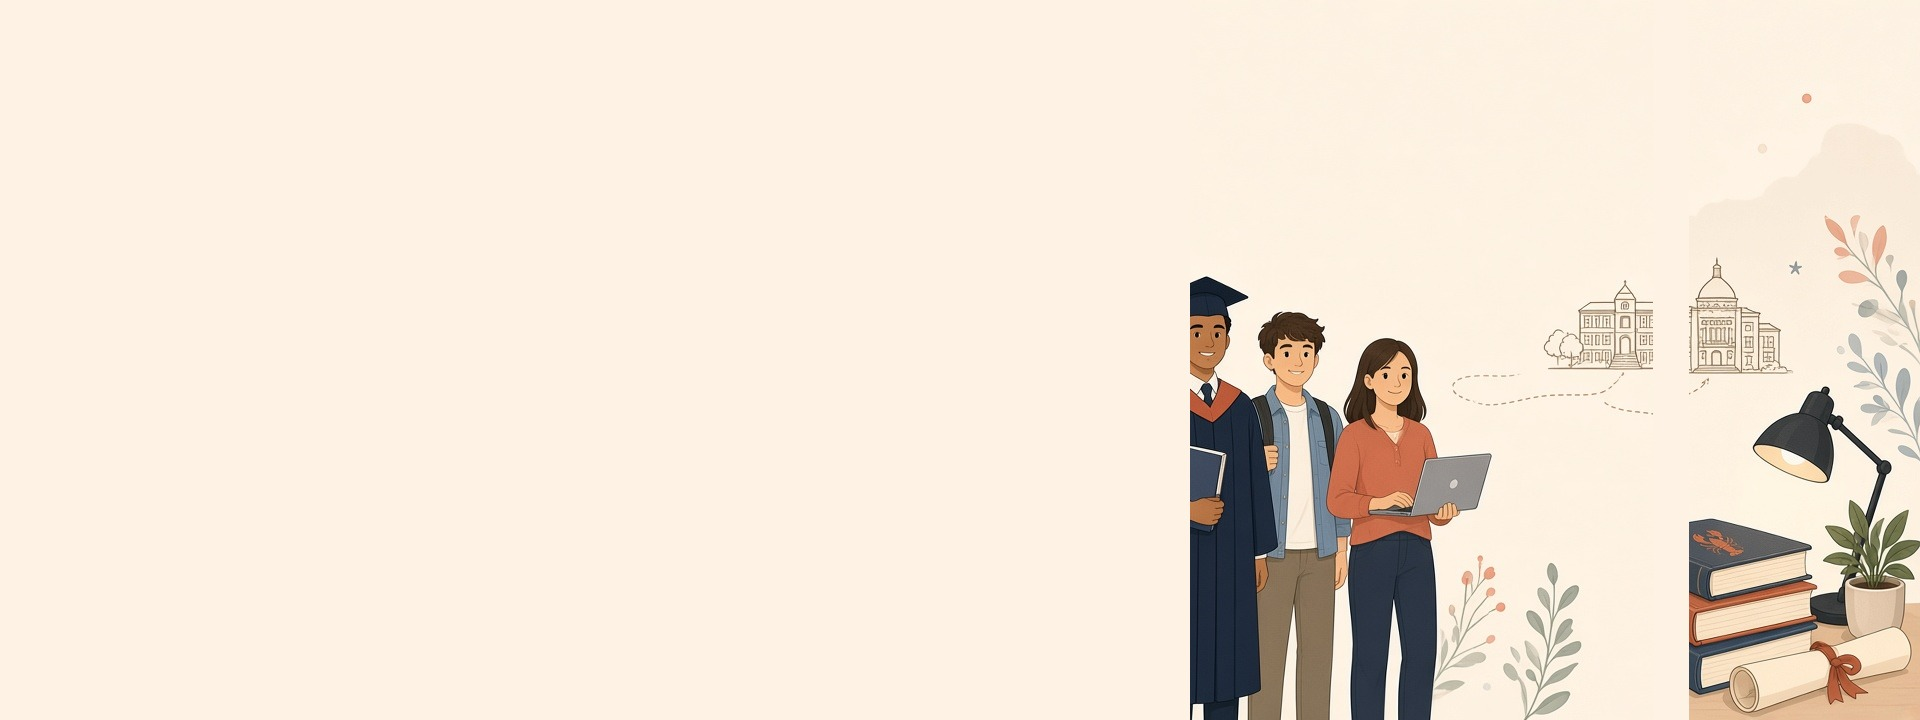
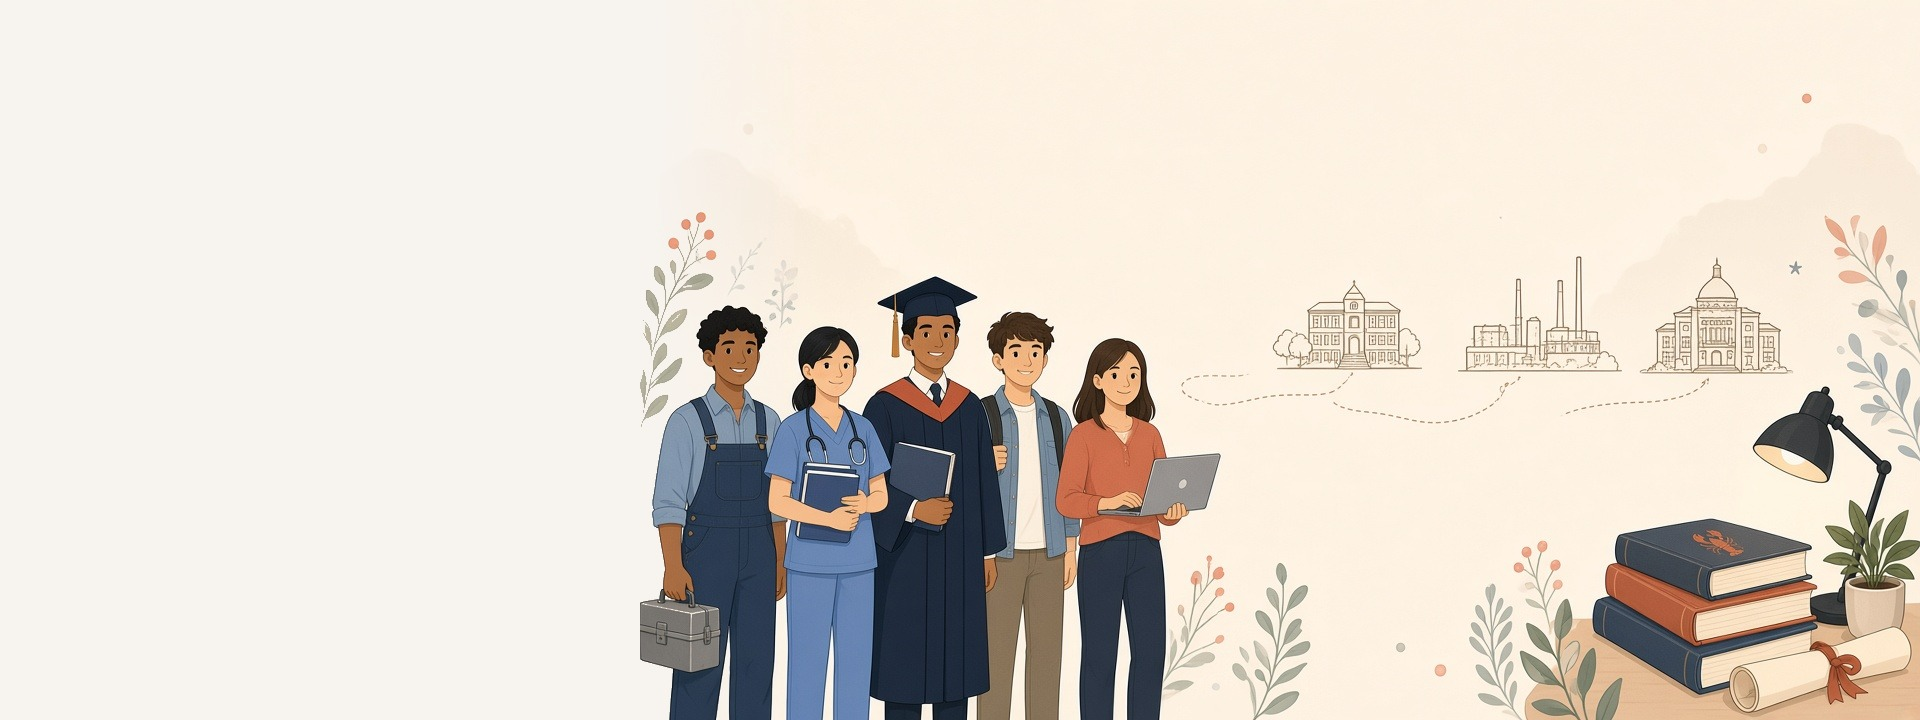
Opleidingen r6: seamless desktop learn-grow hero from full scene.
Preprocess wide hero with pearl extension and background-only seam feather; single background layer (no mask/panel). auto 100% right shows all five figures. Add build and seam pixelcheck scripts plus r6 captures.

Changed region(s): [[0.3125, 0.3056, 0.9062, 1.0]]

diff --git a/Jobsy.Web/wwwroot/css/features/opleidingen.css b/Jobsy.Web/wwwroot/css/features/opleidingen.css
@@ -16,28 +16,17 @@
 
 @media (min-width: 640px) {
   .opl-page .cand-hero--learn-grow {
-    background-image: none !important;
     background-color: var(--pearl);
-  }
-
-  .opl-page .cand-hero--learn-grow::after {
-    content: "";
-    position: absolute;
-    inset-block: 0;
-    inset-inline: 39% 0;
-    z-index: 0;
-    background-image: var(--cand-hero-art-desktop, var(--cand-hero-art));
+    background-image: var(--cand-hero-art-desktop, var(--cand-hero-art)) !important;
     background-repeat: no-repeat;
-    background-size: cover;
-    background-position: var(--cand-hero-pos-desktop, right center);
-    -webkit-mask-image: linear-gradient(90deg, transparent 0%, #000 5%, #000 100%);
-    mask-image: linear-gradient(90deg, transparent 0%, #000 5%, #000 100%);
+    background-size: auto 100%;
+    background-position: right center;
   }
 
-  .opl-page .cand-hero--learn-grow::before {
-    inset-inline: 0 61%;
-    width: auto;
-    background: var(--pearl) !important;
+  .opl-page .cand-hero--learn-grow::before,
+  .opl-page .cand-hero--learn-grow::after {
+    content: none !important;
+    display: none !important;
   }
 }
 

diff --git a/tools/scripts/build-leren-groeien-hero-desktop.py b/tools/scripts/build-leren-groeien-hero-desktop.py
@@ -1,0 +1,55 @@
+#!/usr/bin/env python3
+"""Build desktop learn-grow hero: full mobile scene + pearl extension, soft background seam."""
+from __future__ import annotations
+
+from pathlib import Path
+
+from PIL import Image
+
+PEARL = (247, 244, 240)
+SRC = Path(__file__).resolve().parents[2] / "Jobsy.Web/wwwroot/images/candidate-illustrated/leren-groeien-hero.jpg"
+OUT = SRC.parent / "leren-groeien-hero-wide.jpg"
+
+SCENE_W = 1280
+SCENE_H = 720
+OUT_W = 1920
+SEAM_BLEND = 180  # px at scene left edge: feather background only
+
+
+def is_background(r: int, g: int, b: int) -> bool:
+    lum = 0.299 * r + 0.587 * g + 0.114 * b
+    mx, mn = max(r, g, b), min(r, g, b)
+    sat = (mx - mn) / mx if mx else 0.0
+    return lum >= 188 and sat <= 0.22
+
+
+def main() -> None:
+    scene = Image.open(SRC).convert("RGB")
+    if scene.size != (SCENE_W, SCENE_H):
+        scene = scene.resize((SCENE_W, SCENE_H), Image.Resampling.LANCZOS)
+
+    canvas = Image.new("RGB", (OUT_W, SCENE_H), PEARL)
+    scene_x = OUT_W - SCENE_W
+    canvas.paste(scene, (scene_x, 0))
+
+    pix = canvas.load()
+    pr, pg, pb = PEARL
+    for x in range(scene_x, scene_x + SEAM_BLEND):
+        f = 1.0 - (x - scene_x) / SEAM_BLEND  # pearl at seam, scene at end
+        for y in range(SCENE_H):
+            r, g, b = pix[x, y]
+            if not is_background(r, g, b):
+                continue
+            pix[x, y] = (
+                int(pr * f + r * (1 - f)),
+                int(pg * f + g * (1 - f)),
+                int(pb * f + b * (1 - f)),
+            )
+
+    OUT.parent.mkdir(parents=True, exist_ok=True)
+    canvas.save(OUT, quality=92, optimize=True)
+    print(f"wrote {OUT} size={canvas.size}")
+
+
+if __name__ == "__main__":
+    main()

diff --git a/tools/scripts/pixelcheck-hero-r6.py b/tools/scripts/pixelcheck-hero-r6.py
@@ -1,0 +1,43 @@
+#!/usr/bin/env python3
+"""Seam check: in hero sky band, adjacent column mean delta must be <= max_delta."""
+from __future__ import annotations
+
+import sys
+from pathlib import Path
+
+import numpy as np
+from PIL import Image
+
+
+def max_seam_delta(path: Path, y0: int = 48, y1: int = 130, width_frac: float = 0.62) -> float:
+    im = np.array(Image.open(path).convert("RGB"))
+    band = im[y0:y1].astype(np.float32)
+    col_mean = band.mean(axis=(0, 2))
+    w = len(col_mean)
+    left = col_mean[: max(2, int(w * width_frac))]
+    deltas = np.abs(np.diff(left))
+    return float(deltas.max()) if deltas.size else 0.0
+
+
+def main() -> int:
+    max_delta = 6.0
+    paths = sys.argv[1:] or [
+        "/opt/cursor/artifacts/opleidingen-r6/leren-groeien-desktop-viewport-1440.png",
+    ]
+    failed = False
+    for p in paths:
+        path = Path(p)
+        if not path.is_file():
+            print(f"MISSING {path}")
+            failed = True
+            continue
+        m = max_seam_delta(path)
+        ok = m <= max_delta
+        print(f"{'OK' if ok else 'FAIL'} {path.name} seam_max_delta={m:.2f}")
+        if not ok:
+            failed = True
+    return 1 if failed else 0
+
+
+if __name__ == "__main__":
+    raise SystemExit(main())

diff --git a/Jobsy.Web/Media/CandidateIllustratedImages.cs b/Jobsy.Web/Media/CandidateIllustratedImages.cs
@@ -3,7 +3,7 @@ namespace Jobsy.Web.Media;
 /// <summary>Versioned URLs for candidate-facing illustrated pages (login, start, kompas, banenkaart).</summary>
 public static class CandidateIllustratedImages
 {
-    public const string Version = "20261018-07";
+    public const string Version = "20261018-08";
     private const string Base = $"/images/candidate-illustrated";
 
     public static string Url(string file) => $"{Base}/{file}?v={Version}";
